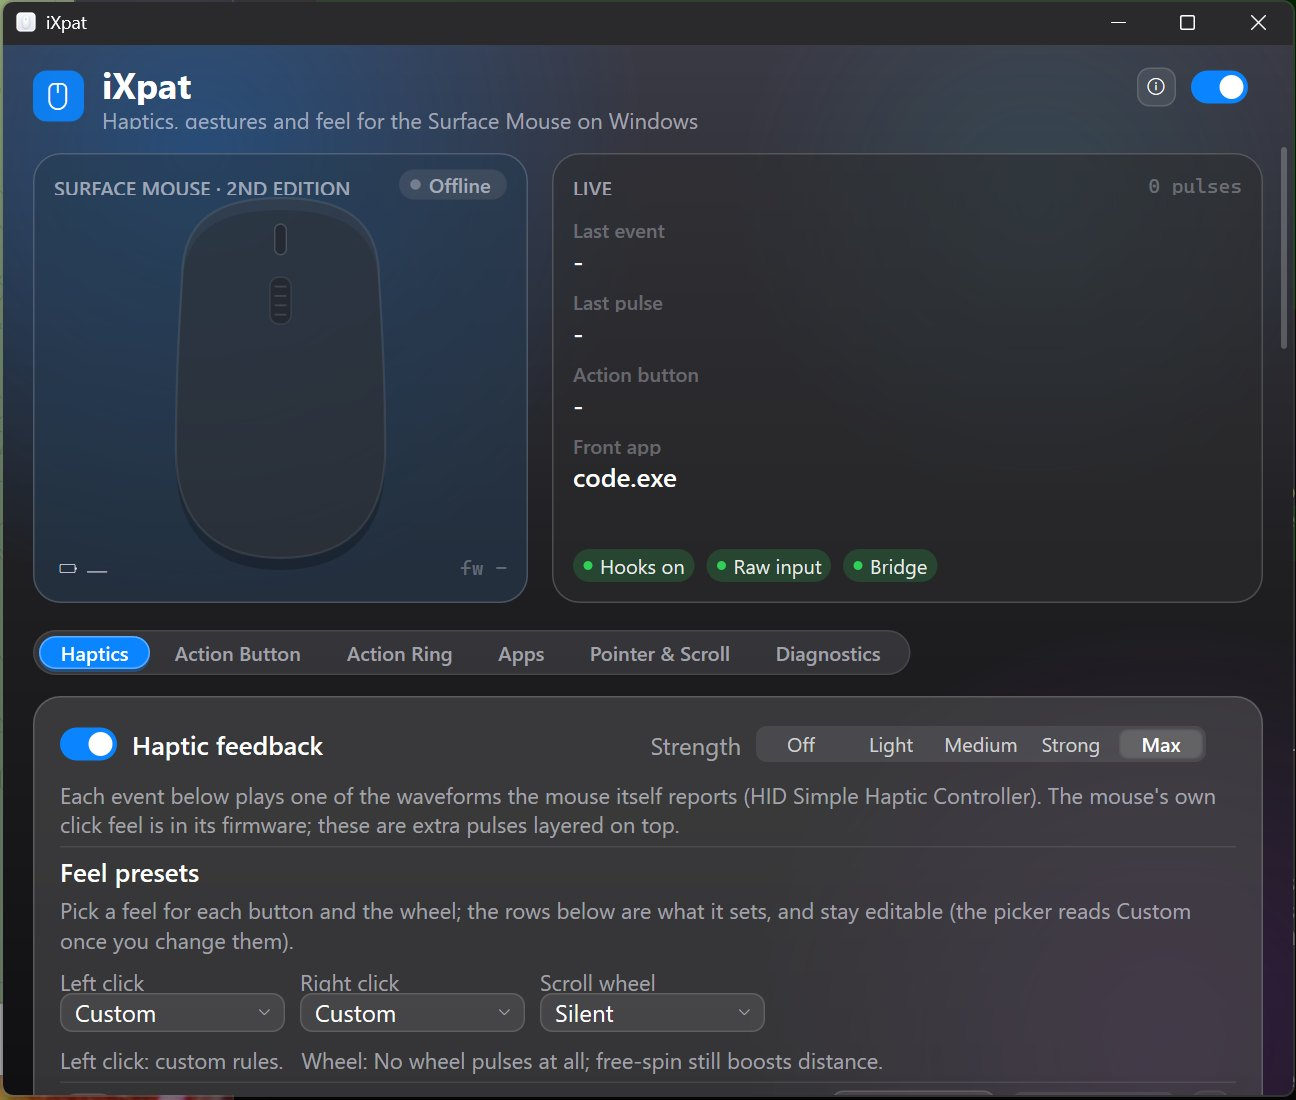
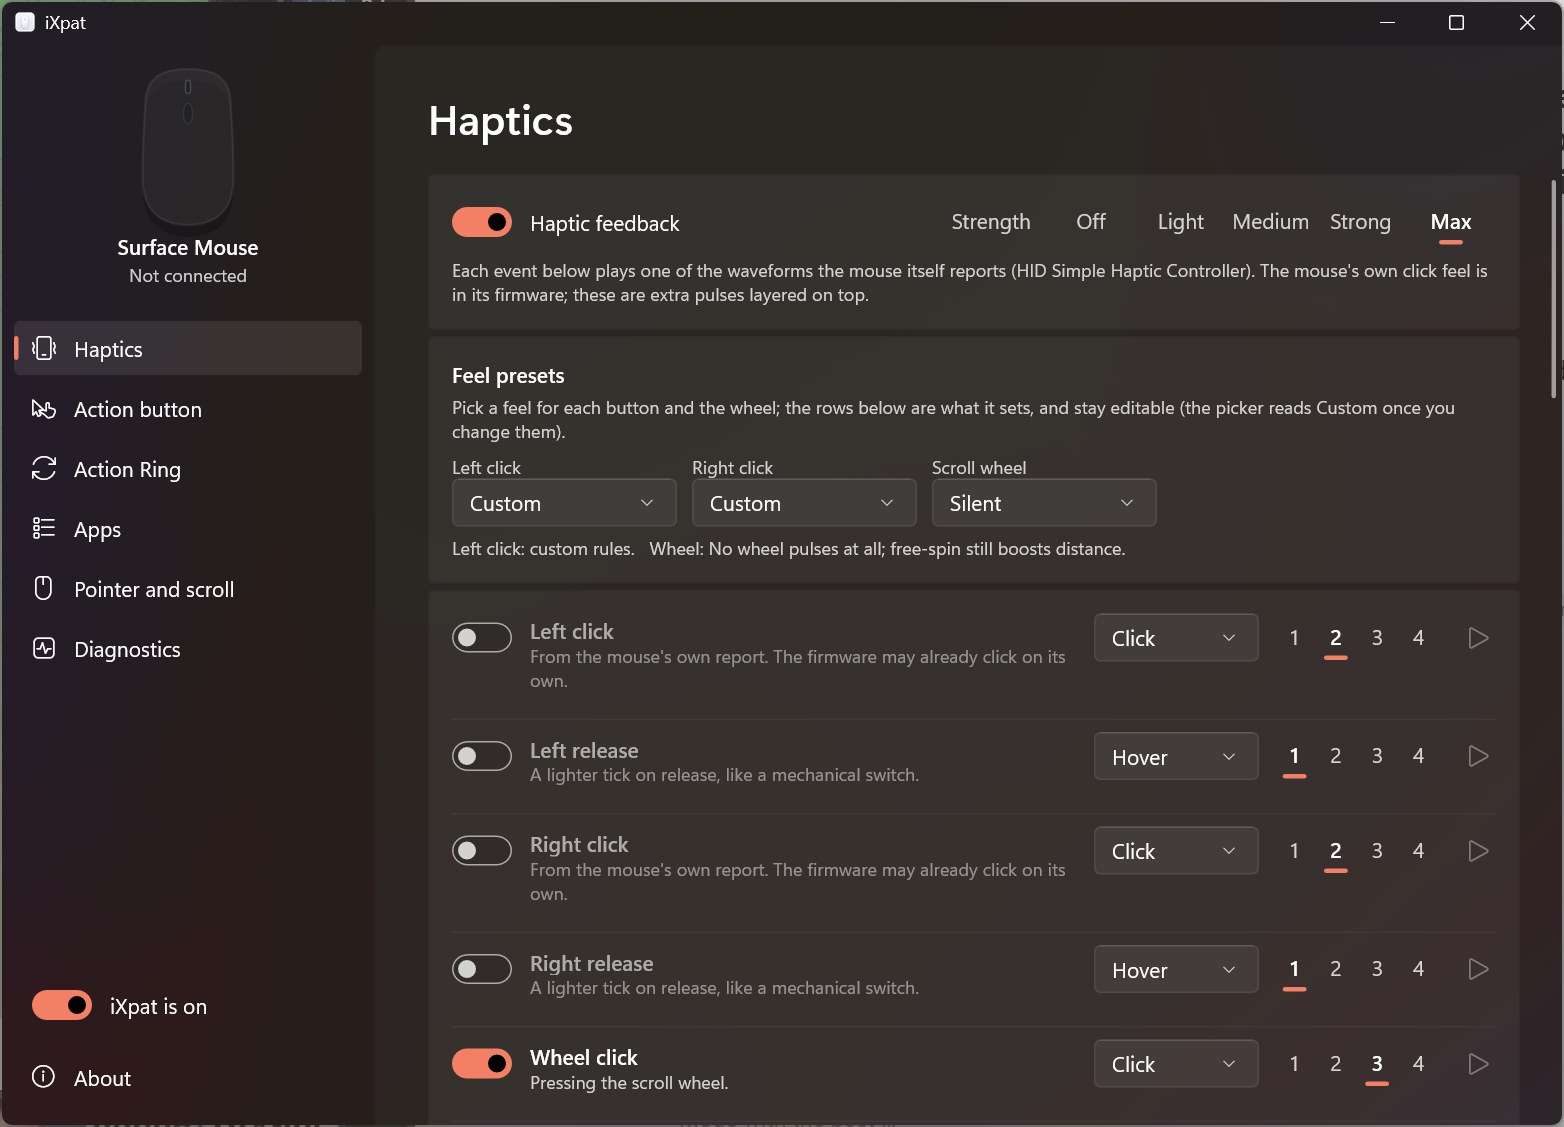
Windows 0.2.1: version, release links, the new window on the site, the plan's status
The site and the README point at the win-v0.2.1 assets; the Windows section shows the Windows 11
window; docs/windows-plan.md records what 0.2.1 changed and what is still open.

diff --git a/docs/index.html b/docs/index.html
@@ -475,7 +475,7 @@
                 </a>
                 <a class="btn btn-ghost" href="https://github.com/knightynite/ixpat" target="_blank" rel="noopener">View on GitHub</a>
             </div>
-            <div class="meta"><b>v0.1.1</b> · macOS 14 or later · Apple Silicon and Intel · Free and open source · 2.9 MB &nbsp;·&nbsp; <b>Windows 0.2.0</b> · Windows 10/11 · x64 and ARM64</div>
+            <div class="meta"><b>v0.1.1</b> · macOS 14 or later · Apple Silicon and Intel · Free and open source · 2.9 MB &nbsp;·&nbsp; <b>Windows 0.2.1</b> · Windows 10/11 · x64 and ARM64</div>
         </div>
         <div class="wrap">
             <div class="stage-art reveal">
@@ -679,7 +679,7 @@
             </div>
             <div class="showcase reveal" style="margin-top: 0;">
                 <div class="glow"></div>
-                <div class="frame"><img src="windows-settings.jpg" alt="iXpat for Windows settings window: the live mouse schematic, the event monitor and the Haptics tab" width="1296" height="1100" loading="lazy"></div>
+                <div class="frame"><img src="windows-settings.jpg" alt="iXpat for Windows: a Windows 11 settings window with the live mouse in the navigation pane and the Haptics page" width="1564" height="1127" loading="lazy"></div>
             </div>
             <div class="bento" style="margin-top: 40px;">
                 <div class="card span-2 reveal">
@@ -699,13 +699,13 @@
                 </div>
             </div>
             <div class="actions" style="justify-content: center; margin-top: 32px;">
-                <a class="btn btn-primary" href="https://github.com/knightynite/ixpat/releases/download/win-v0.2.0/iXpat-Setup-0.2.0-x64.exe">
+                <a class="btn btn-primary" href="https://github.com/knightynite/ixpat/releases/download/win-v0.2.1/iXpat-Setup-0.2.1-x64.exe">
                     <svg width="18" height="18" viewBox="0 0 24 24" fill="none" stroke="currentColor" stroke-width="2" stroke-linecap="round" stroke-linejoin="round"><rect x="3" y="4" width="18" height="16" rx="2"/><line x1="3" y1="12" x2="21" y2="12"/><line x1="12" y1="4" x2="12" y2="20"/></svg>
                     Download for Windows
                 </a>
-                <a class="btn btn-ghost" href="https://github.com/knightynite/ixpat/releases/download/win-v0.2.0/iXpat-0.2.0-windows-x64.zip">Zip, no installer (x64)</a>
-                <a class="btn btn-ghost" href="https://github.com/knightynite/ixpat/releases/download/win-v0.2.0/iXpat-0.2.0-windows-arm64.zip">ARM64 zip</a>
-                <a class="btn btn-ghost" href="https://github.com/knightynite/ixpat/releases/tag/win-v0.2.0">Release notes</a>
+                <a class="btn btn-ghost" href="https://github.com/knightynite/ixpat/releases/download/win-v0.2.1/iXpat-0.2.1-windows-x64.zip">Zip, no installer (x64)</a>
+                <a class="btn btn-ghost" href="https://github.com/knightynite/ixpat/releases/download/win-v0.2.1/iXpat-0.2.1-windows-arm64.zip">ARM64 zip</a>
+                <a class="btn btn-ghost" href="https://github.com/knightynite/ixpat/releases/tag/win-v0.2.1">Release notes</a>
             </div>
             <div class="stage-credit reveal" style="margin-top: 14px;">The Windows builds are not code-signed yet, so SmartScreen asks once (More info, then Run anyway). Input aimed at elevated windows, such as UAC prompts, is not shaped.</div>
         </div>
@@ -809,13 +809,13 @@
                         <svg width="18" height="18" viewBox="0 0 24 24" fill="none" stroke="currentColor" stroke-width="2" stroke-linecap="round" stroke-linejoin="round"><path d="M21 15v4a2 2 0 0 1-2 2H5a2 2 0 0 1-2-2v-4"/><polyline points="7 10 12 15 17 10"/><line x1="12" y1="15" x2="12" y2="3"/></svg>
                         Download for macOS
                     </a>
-                    <a class="btn btn-ghost" href="https://github.com/knightynite/ixpat/releases/download/win-v0.2.0/iXpat-Setup-0.2.0-x64.exe">
+                    <a class="btn btn-ghost" href="https://github.com/knightynite/ixpat/releases/download/win-v0.2.1/iXpat-Setup-0.2.1-x64.exe">
                         <svg width="18" height="18" viewBox="0 0 24 24" fill="none" stroke="currentColor" stroke-width="2" stroke-linecap="round" stroke-linejoin="round"><rect x="3" y="4" width="18" height="16" rx="2"/><line x1="3" y1="12" x2="21" y2="12"/><line x1="12" y1="4" x2="12" y2="20"/></svg>
                         Download for Windows
                     </a>
                     <a class="btn btn-ghost" href="https://github.com/knightynite/ixpat/releases">All releases</a>
                 </div>
-                <div class="meta"><b>macOS v0.1.1</b> · 2.9 MB &nbsp;·&nbsp; <b>Windows 0.2.0</b> · installer, 2.5 MB · zips for x64 and ARM64 on the <a href="https://github.com/knightynite/ixpat/releases/tag/win-v0.2.0">release page</a></div>
+                <div class="meta"><b>macOS v0.1.1</b> · 2.9 MB &nbsp;·&nbsp; <b>Windows 0.2.1</b> · installer, 2.5 MB · zips for x64 and ARM64 on the <a href="https://github.com/knightynite/ixpat/releases/tag/win-v0.2.1">release page</a></div>
                 <div class="codes">
                     <div class="code"><span>$</span><code>brew install knightynite/ixpat/ixpat</code></div>
                     <div class="code"><span>$</span><code>git clone https://github.com/knightynite/ixpat.git && cd ixpat && ./build.sh</code></div>

diff --git a/windows/src/app/version.h b/windows/src/app/version.h
@@ -4,5 +4,5 @@
 #define IXPAT_VERSION_MAJOR 0
 #define IXPAT_VERSION_MINOR 2
 #define IXPAT_VERSION_PATCH 0
-#define IXPAT_VERSION_STRING "0.2.0"
-#define IXPAT_VERSION_WSTRING L"0.2.0"
+#define IXPAT_VERSION_STRING "0.2.1"
+#define IXPAT_VERSION_WSTRING L"0.2.1"

diff --git a/docs/windows-plan.md b/docs/windows-plan.md
@@ -18,11 +18,24 @@ the measurements are [`windows/docs/measurements-2026-10.md`](../windows/docs/me
 | Menu, control, drop, text, slider, selection and scroll-end ticks | yes | UI Automation on a worker thread; cursor-shape hover on main. |
 | Pointer settings for this mouse only | yes | Applied while the Surface Mouse drives the pointer, restored when another device does. |
 | Plugin bridge | yes | Same loopback HTTP API and token. |
-| Settings window | yes | Direct2D, light/dark, per-monitor DPI, the Mac's six tabs plus About. |
+| Settings window | yes | A Windows 11 app: Mica, a navigation pane with the live mouse, settings cards, the Fluent controls, Segoe UI Variable, the Windows accent; light/dark, per-monitor DPI. |
 | Updates | check only | Asks GitHub daily for a newer `win-v` release and opens the release page. The builds are unsigned, so nothing installs itself. |
 | Start at login | yes | HKCU Run value. |
 | Elevated windows | no | Windows does not deliver input aimed at UAC prompts and admin tools to a normal process; the mouse works there, nothing is shaped. A UIAccess-signed binary would be needed. |
 | Firmware updates | no (see 3) | Windows Update already does this. |
+
+### win-v0.2.1
+
+* **The action button, redone.** The hooks decide alone and never wait: Windows runs the keyboard hook before it
+  generates a key's Raw Input report (and generates none for a key the hook ate), so a hook that waited for the
+  report could only stall the system's input thread. Raw Input names the device a millisecond later and never
+  fires an action; a report the hook never saw means Windows dropped the hook and already acted, so nothing fires
+  twice, and the hooks are put back within 50 ms (and every 5 s while idle regardless). A mask key keeps the Win
+  release from opening Start. The decoder fires only on keys it was fed; its time-based guesses are gone.
+* **Smooth scrolling.** No more 2 ms stall per notch; the coast clock keeps its phase across notches.
+* **A Windows 11 window** (above), and a Diagnostics page that shows hook timing, re-installs and system stalls.
+* **Still open.** Windows drops the low-level hooks of this process now and then, with our callbacks at tens of
+  microseconds; the stall watch is there to show whether the machine stands still when it happens.
 
 ## 2. What the first plan got wrong
 

diff --git a/README.md b/README.md
@@ -48,10 +48,10 @@ Needs Xcode 16+ and macOS 14+.
 ### Windows
 
 Windows builds are separate releases tagged `win-vX.Y.Z` (marked pre-release so the
-Mac updater ignores them). From the [Windows release page](https://github.com/knightynite/ixpat/releases/tag/win-v0.2.0):
+Mac updater ignores them). From the [Windows release page](https://github.com/knightynite/ixpat/releases/tag/win-v0.2.1):
 
-* [`iXpat-Setup-0.2.0-x64.exe`](https://github.com/knightynite/ixpat/releases/download/win-v0.2.0/iXpat-Setup-0.2.0-x64.exe): per-user installer, no elevation, optional start at login.
-* [`iXpat-0.2.0-windows-x64.zip`](https://github.com/knightynite/ixpat/releases/download/win-v0.2.0/iXpat-0.2.0-windows-x64.zip) / [`-arm64.zip`](https://github.com/knightynite/ixpat/releases/download/win-v0.2.0/iXpat-0.2.0-windows-arm64.zip): a single `iXpat.exe`, run it from anywhere.
+* [`iXpat-Setup-0.2.1-x64.exe`](https://github.com/knightynite/ixpat/releases/download/win-v0.2.1/iXpat-Setup-0.2.1-x64.exe): per-user installer, no elevation, optional start at login.
+* [`iXpat-0.2.1-windows-x64.zip`](https://github.com/knightynite/ixpat/releases/download/win-v0.2.1/iXpat-0.2.1-windows-x64.zip) / [`-arm64.zip`](https://github.com/knightynite/ixpat/releases/download/win-v0.2.1/iXpat-0.2.1-windows-arm64.zip): a single `iXpat.exe`, run it from anywhere.
 
 The binaries are not code-signed: SmartScreen shows *More info > Run anyway* once.
 Build from source with Visual Studio 2022 Build Tools (C++ workload):
